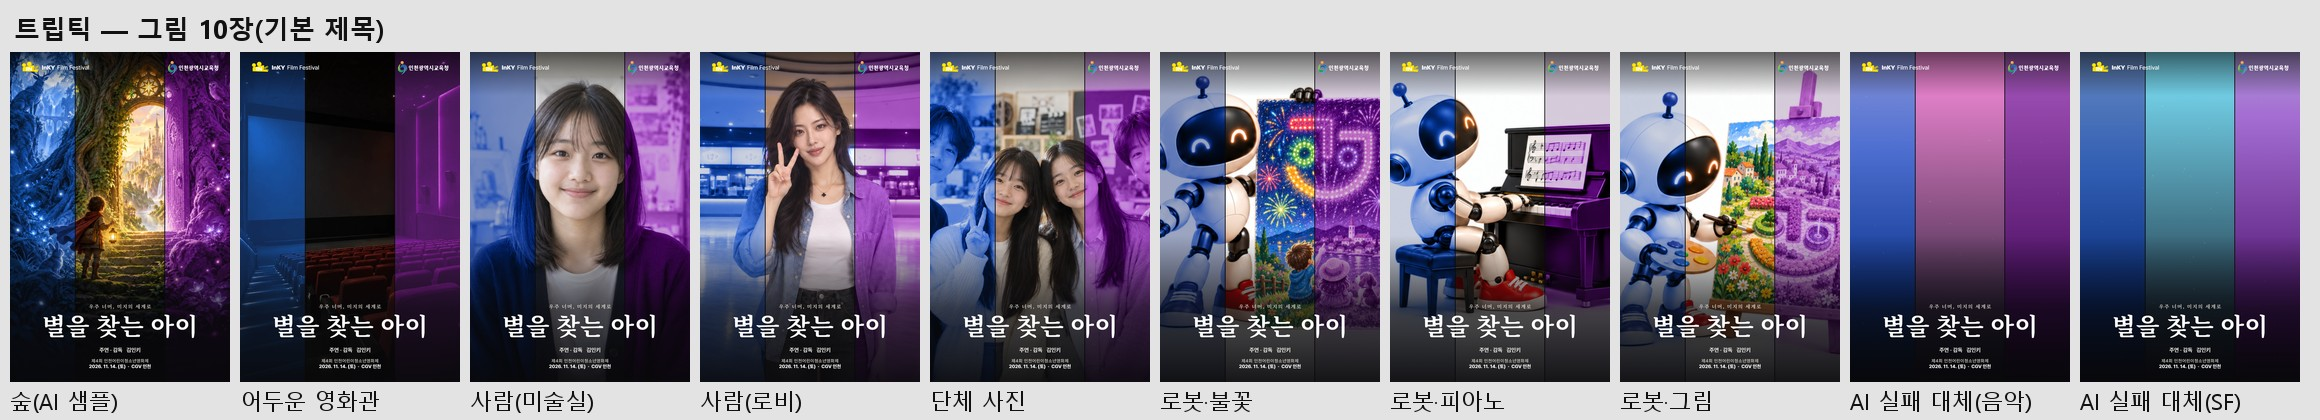
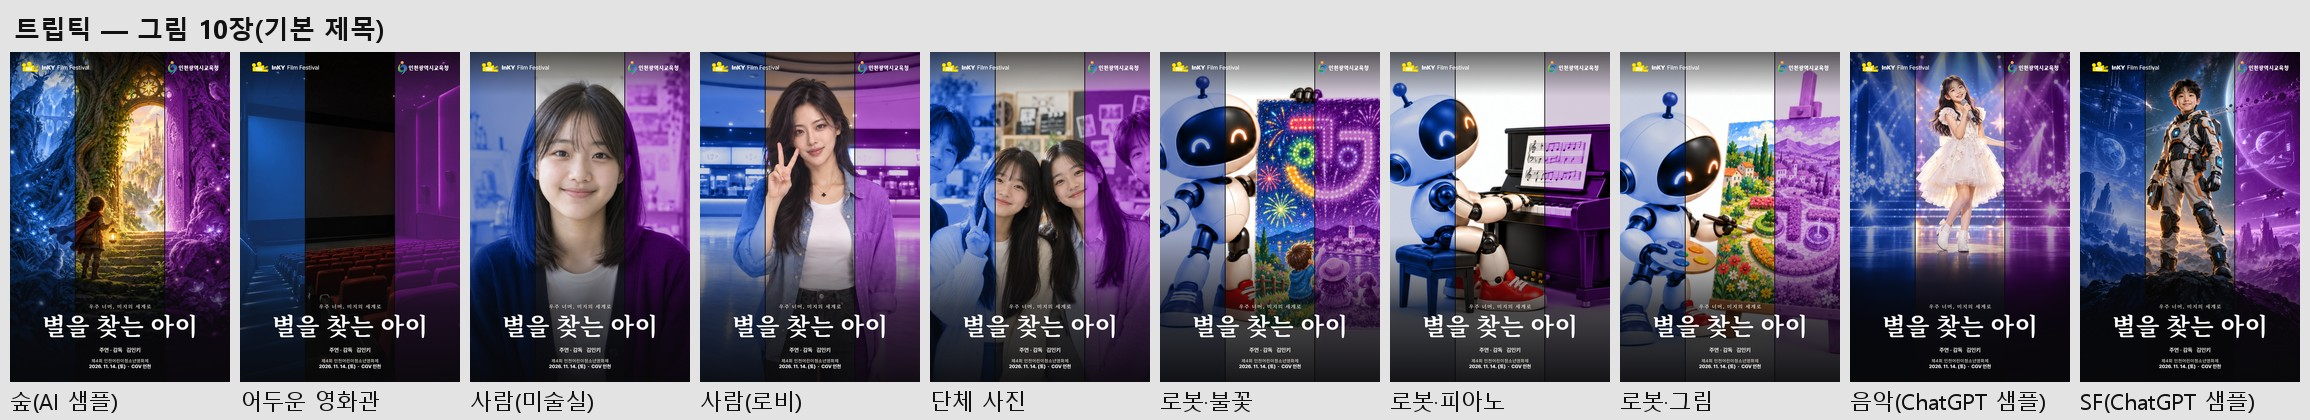
docs: 포스터 시안 렌더의 AI 실패 대체 칸을 음악·SF 실제 그림으로 교체(ChatGPT 샘플 원화 2장, 그림 10장·제목 10가지 × 8종 다시 렌더) (Bumm님 지시, 팀장 전달)

diff --git a/_docs/CHANGELOG.md b/_docs/CHANGELOG.md
@@ -215,6 +215,10 @@
       - 어두운 그림은 색을 밝혀 덧칠하고, 주색이 칸 색과 가까우면 더 깊게 가라앉힌다.
       - 그림 10장 모두 세 칸 평균색 차이가 ΔE 17.9 이상이다.
   - 시네마는 1차 시안과 화소 차이 0이다. 테스트 254개·타입·린트·빌드·글꼴 검사 통과.
+- 시안 렌더의 «AI 실패 대체 그림» 두 칸을 실제 그림으로 바꿨다(팀장 전달, Bumm님 지시).
+  - 음악·SF 샘플 원화 2장을 Bumm님 크롬의 ChatGPT로 그렸다(앱 생성 지시문 그대로, 지어낸 아이, 비용 0). 원화는 저장소에 넣지 않았다.
+  - 그림 10장 × 8종, 제목 10가지 × 8종을 다시 그렸다(`compare/`). 제목 10가지 중 음악 칸도 음악 그림으로 바꿨다.
+  - 그림을 바꾸지 않은 칸 136장은 3차 렌더와 화소 차이 0이다(틀 코드는 그대로).
 
 ## 2026-10-12 — 대기 영상 12편 앱 장착(로컬 커밋만 — GitHub 정지, push·배포 안 함) (Bumm님 결정, 팀장 전달)
 
